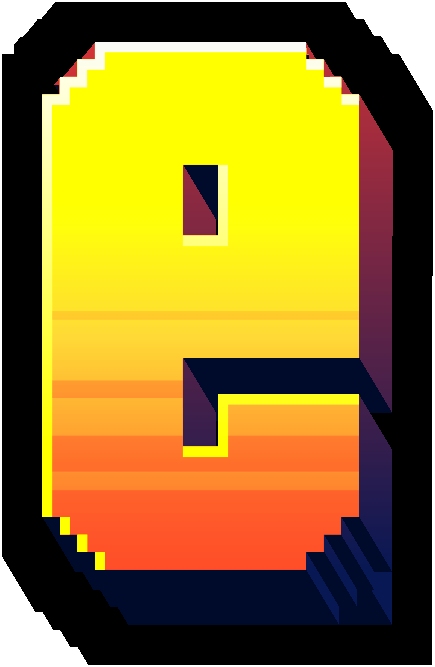
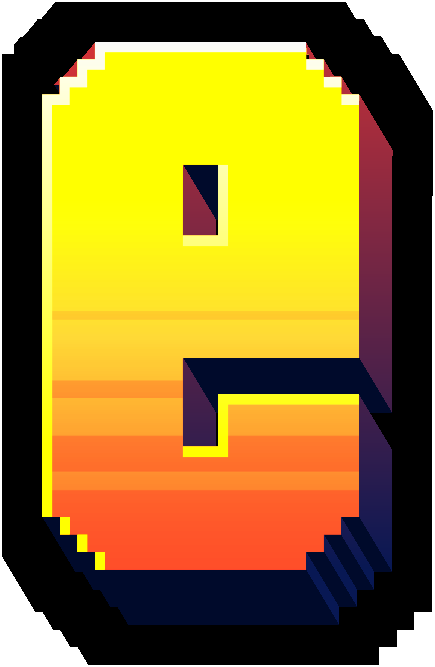
Tiny Rogues: keep the stepped corners, only the hairlines go
The owner wants the right-angle bumps: square_corners is off again, so the
side and outline follow each letter's steps. The hairline fixes (closed
one-pixel notches, floors needing a 5px run) and the wall shading stay.

Claude-Session: https://claude.ai/code/session_01LaEujtb3z1MqfzPFRg1ETE

Changed region(s): [[0.777, 0.8396, 1.0, 1.0], [0.9862, 0.2999, 1.0, 0.4198]]

diff --git a/docs/content-authoring.md b/docs/content-authoring.md
@@ -146,12 +146,11 @@ outline smoothed every corner off. Square, the face's steps stay steps in the
 outline and only a diagonal side gets a diagonal edge, as the logo draws it.
 And the sides are drawn the logo's way, measured off it: walls shade top to
 bottom down the letter, maroon at the face's top edge to navy at its foot
-(`wall_gradient`), floors one flat navy; a stepped corner on the side the face
-is swept toward is extruded as if square (`square_corners`: filled where the
-face lies within 80px behind it both ways and nowhere ahead), so the side and
-the outline run straight into a square corner, with the face's steps still
-casting their own facets inside it (a second sweep of the stepped face); and a
-floor counts only where it runs 5px or more along the bottom, plus the face's
+(`wall_gradient`), floors one flat navy. The stepped corners stay stepped,
+side and outline both: the owner wants the right-angle bumps
+(`square_corners`, which extrudes a stepped corner as if square, is in the
+script and deliberately not used here). A floor counts only where it runs 5px
+or more along the bottom, plus the face's
 one-pixel edge notches closed (`close_face`): a stray edge pixel was swept into
 a hairline across a wall.
 The sword, staff and bow touch the letters' sides, so they are told apart by
